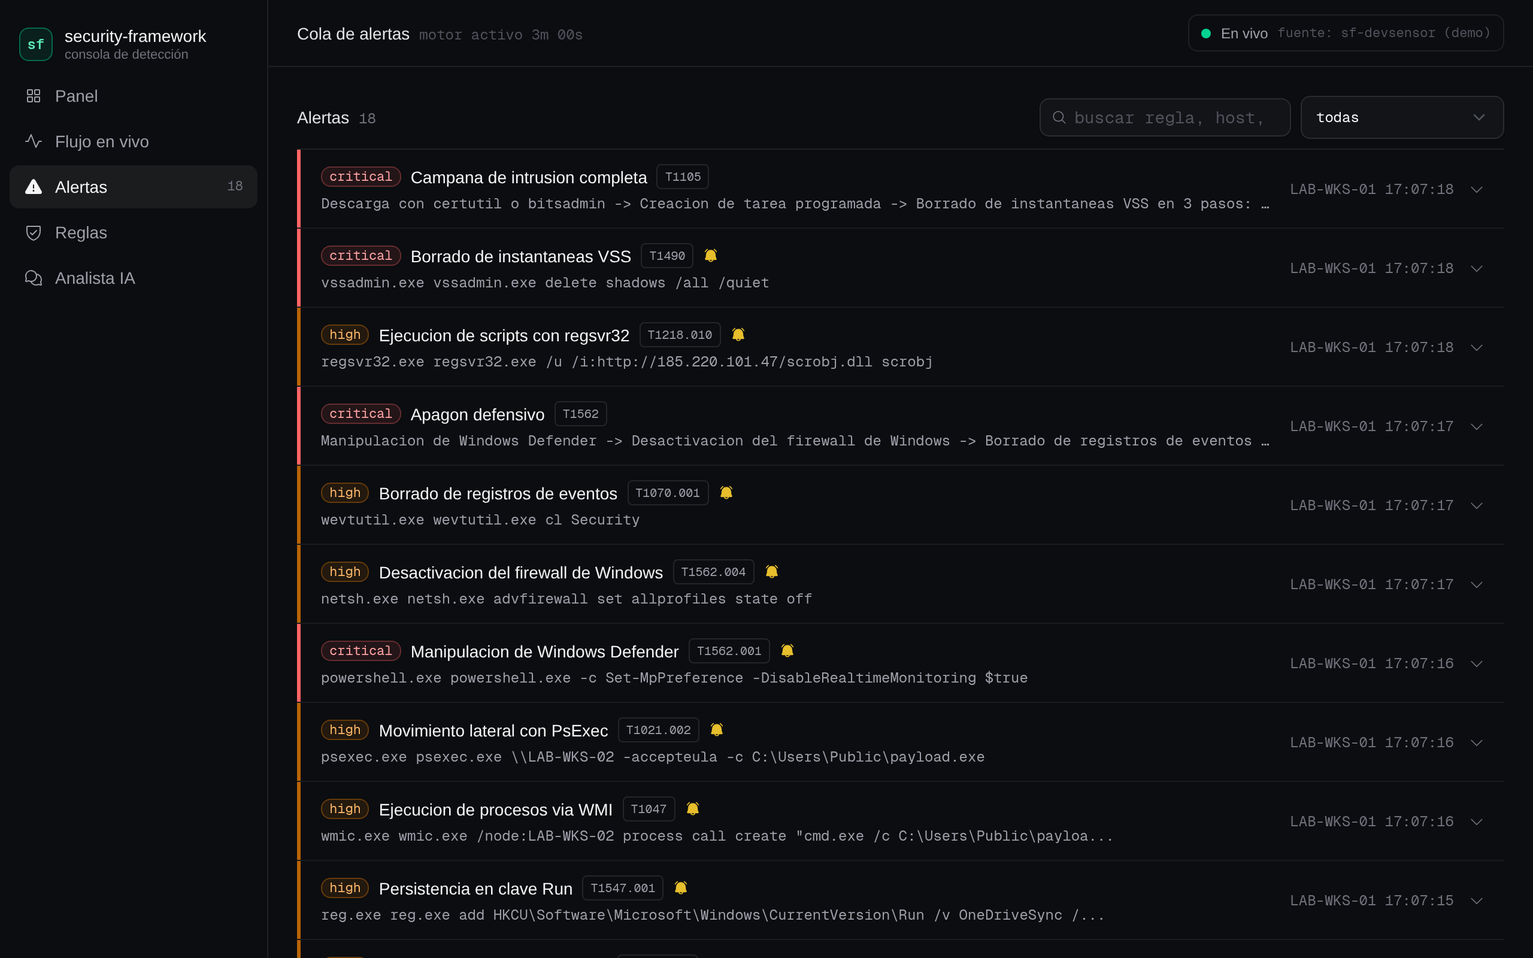
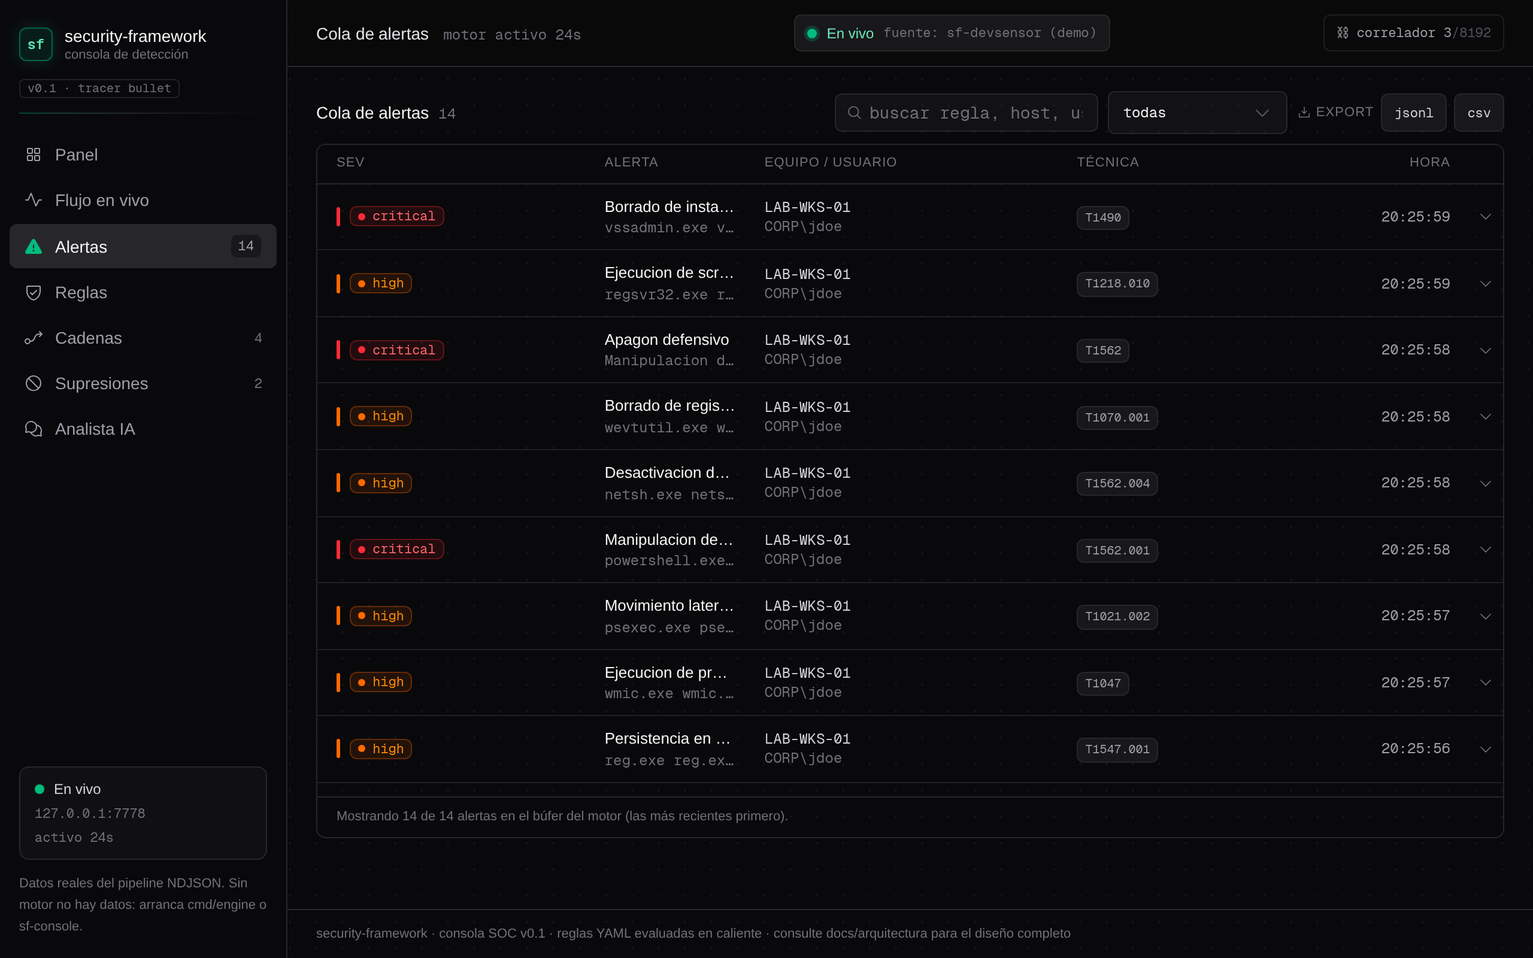
console+docs: nav-pill defect fixed (layoutId pill anchored to app root intercepted ALL pointer events — relative button + pointer-events-none, geometric browser assertion added), Cadenas view rendered as a real connected chain (numbered nodes, emerald connectors when armed vs amber missing steps, A

diff --git a/web/console/src/components/console/sequences-view.tsx b/web/console/src/components/console/sequences-view.tsx
@@ -12,6 +12,7 @@
 import { FlowArrow, Timer } from '@phosphor-icons/react'
 import { useEngine } from './engine-provider'
 import { EmptyState, SectionHeader, SeverityBadge } from './ui-bits'
+import { AnimatedItem } from '@/components/reactbits/animated-list'
 import type { SfSequence } from '@/lib/console-types'
 
 function formatWindow(seconds: number): string {
@@ -64,8 +65,8 @@ export function SequencesView() {
         />
       ) : (
         <ul className="space-y-3">
-          {sequences.map((s) => (
-            <SequenceCard key={s.id} seq={s} rules={rules.map((r) => r.name)} />
+          {sequences.map((s, i) => (
+            <SequenceCard key={s.id} seq={s} index={i} rules={rules.map((r) => r.name)} />
           ))}
         </ul>
       )}
@@ -73,13 +74,30 @@ export function SequencesView() {
   )
 }
 
-function SequenceCard({ seq, rules }: { seq: SfSequence; rules: string[] }) {
+function SequenceCard({ seq, index, rules }: { seq: SfSequence; index: number; rules: string[] }) {
   const live = new Set(rules)
   const missing = seq.steps.filter((step) => !live.has(step))
+  // armed = every step has a live rule in the engine: the chain CAN
+  // complete and raise its campaign alert. The connector color carries
+  // exactly that fact (emerald flow vs. neutral line) — state, not decor.
+  const armed = missing.length === 0
   return (
-    <li className="rounded-md border border-white/[0.08] bg-white/[0.02] px-4 py-3">
+    <li>
+      {/* AnimatedItem (React Bits): entrada escalonada en el montaje, misma
+          pauta que la telemetría del Panel; keys estables, sin re-animar. */}
+      <AnimatedItem
+        index={index}
+        className="rounded-md border border-white/[0.08] bg-white/[0.02] px-4 py-3"
+      >
       <div className="flex flex-wrap items-center gap-2">
-        <FlowArrow size={14} weight="fill" aria-hidden className="shrink-0 text-zinc-500" />
+        {/* el icono comunica si la cadena puede completar: esmeralda armada,
+            ámbar con pasos huérfanos */}
+        <FlowArrow
+          size={14}
+          weight="fill"
+          aria-hidden
+          className={`shrink-0 ${armed ? 'text-emerald-300/80' : 'text-amber-300/80'}`}
+        />
         <span className="text-sm font-medium text-zinc-100">{seq.name}</span>
         <SeverityBadge severity={seq.severity} />
         <span
@@ -98,20 +116,42 @@ function SequenceCard({ seq, rules }: { seq: SfSequence; rules: string[] }) {
 
       <p className="mt-2 max-w-[100ch] text-xs leading-relaxed text-zinc-400">{seq.description}</p>
 
-      <ol className="mt-3 flex flex-wrap items-center gap-1.5">
+      {/* Cadena visual: nodo numerado + conector por paso. El conector es
+          la parte semántica — línea esmeralda cuando la cadena puede
+          completar, neutra cuando hay un paso sin regla. */}
+      <ol className="mt-3 flex flex-wrap items-center gap-y-2">
         {seq.steps.map((step, i) => {
           const ok = live.has(step)
+          const last = i === seq.steps.length - 1
           return (
-            <li key={`${seq.id}:${i}`} className="flex items-center gap-1.5">
-              {i > 0 && <span aria-hidden className="font-mono text-xs text-zinc-600">→</span>}
-              <span
-                title={ok ? 'regla cargada en el motor' : 'regla NO cargada: la cadena no puede completar con este paso'}
-                className={`rounded border px-1.5 py-0.5 font-mono text-[11px] ${
-                  ok ? 'border-white/10 text-zinc-300' : 'border-amber-300/30 bg-amber-300/10 text-amber-200'
-                }`}
-              >
-                {step}
+            <li key={`${seq.id}:${i}`} className="flex items-center">
+              <span className="flex items-center gap-1.5">
+                <span
+                  aria-hidden
+                  className={`flex h-4 w-4 shrink-0 items-center justify-center rounded-full border font-mono text-[9px] leading-none ${
+                    ok ? 'border-white/15 bg-white/[0.04] text-zinc-400' : 'border-amber-300/40 bg-amber-300/10 text-amber-200'
+                  }`}
+                >
+                  {i + 1}
+                </span>
+                <span
+                  title={ok ? 'regla cargada en el motor' : 'regla NO cargada: la cadena no puede completar con este paso'}
+                  className={`rounded border px-1.5 py-0.5 font-mono text-[11px] ${
+                    ok ? 'border-white/10 text-zinc-300' : 'border-amber-300/30 bg-amber-300/10 text-amber-200'
+                  }`}
+                >
+                  {step}
+                </span>
               </span>
+              {!last && (
+                <span
+                  aria-hidden
+                  title={armed ? 'paso siguiente observable en el mismo host y ventana' : undefined}
+                  className={`mx-1.5 h-px w-5 ${
+                    armed ? 'bg-gradient-to-r from-emerald-400/50 to-emerald-400/20' : 'bg-white/10'
+                  }`}
+                />
+              )}
             </li>
           )
         })}
@@ -125,6 +165,7 @@ function SequenceCard({ seq, rules }: { seq: SfSequence; rules: string[] }) {
       )}
 
       <p className="mt-2 font-mono text-[10px] text-zinc-600">id: {seq.id}</p>
+      </AnimatedItem>
     </li>
   )
 }

diff --git a/web/console/src/components/console/suppressions-view.tsx b/web/console/src/components/console/suppressions-view.tsx
@@ -10,6 +10,7 @@ import { useEffect, useState } from 'react'
 import { Prohibit, Timer } from '@phosphor-icons/react'
 import { useEngine } from './engine-provider'
 import { EmptyState, SectionHeader } from './ui-bits'
+import { AnimatedItem } from '@/components/reactbits/animated-list'
 import type { SfSuppression } from '@/lib/console-types'
 
 /** Re-renders every 30 s so the expiry countdowns stay truthful. */
@@ -65,7 +66,13 @@ export function SuppressionsView() {
       ) : (
         <ul className="divide-y divide-white/[0.06] border-y border-white/[0.08]">
           {suppressions.map((s, i) => (
-            <SuppressionRow key={`${s.rule_id}:${s.host ?? '*'}:${i}`} entry={s} ruleName={ruleName(s.rule_id)} now={now} />
+            <SuppressionRow
+              key={`${s.rule_id}:${s.host ?? '*'}:${i}`}
+              index={i}
+              entry={s}
+              ruleName={ruleName(s.rule_id)}
+              now={now}
+            />
           ))}
         </ul>
       )}
@@ -74,17 +81,22 @@ export function SuppressionsView() {
 }
 
 function SuppressionRow({
+  index,
   entry,
   ruleName,
   now,
 }: {
+  index: number
   entry: SfSuppression
   ruleName?: string
   now: Date
 }) {
   const left = countdown(entry.expires, now)
   return (
-    <li className="px-4 py-3">
+    <li>
+      {/* AnimatedItem (React Bits): entrada escalonada en el montaje, misma
+          pauta que el resto de vistas; keys estables, sin re-animar. */}
+      <AnimatedItem index={index} className="px-4 py-3">
       <div className="flex flex-wrap items-center gap-2">
         <Prohibit size={14} weight="fill" aria-hidden className="shrink-0 text-zinc-500" />
         <span className="font-mono text-sm text-zinc-100">{entry.rule_id || 'todas las reglas'}</span>
@@ -113,6 +125,7 @@ function SuppressionRow({
       {entry.reason && (
         <p className="mt-1 pl-6 text-xs leading-relaxed text-zinc-400">{entry.reason}</p>
       )}
+      </AnimatedItem>
     </li>
   )
 }

diff --git a/web/console/src/components/console/shell.tsx b/web/console/src/components/console/shell.tsx
@@ -81,12 +81,16 @@ export function ConsoleShell() {
                     }`}
                   >
                     {/* píldora activa animada con layoutId: el resalte viaja
-                        entre secciones en lugar de aparecer/desaparecer; el
-                        contenido lleva `relative` para pintar por encima */}
+                        entre secciones en lugar de aparecer/desaparecer. El
+                        botón lleva `relative` (ancla el inset-0) y la píldora
+                        pointer-events-none: durante el vuelo del spring sobre
+                        los botones vecinos jamás debe interceptar clicks
+                        (defecto real detectado por el E2E de la ronda
+                        20h20 cuando el inset-0 se anclaba a la raíz). */}
                     {view === item.id && (
                       <motion.span
                         layoutId="nav-pill"
-                        className="absolute inset-0 rounded-md bg-zinc-800"
+                        className="pointer-events-none absolute inset-0 rounded-md bg-zinc-800"
                         transition={reduce ? { duration: 0 } : { type: 'spring', stiffness: 380, damping: 32 }}
                       />
                     )}

diff --git a/README.md b/README.md
@@ -87,7 +87,7 @@ And one engineering rule that shapes everything else: **no simulated data in the
 | **Correlation** | Kill-chain sequencer: named steps across the same host within a time window raise one high-signal campaign alert |
 | **Response** | Operator suppressions (rule/host, expiry, hot-reload), alert webhook with Bearer auth and bounded retries |
 | **API** | Local REST API with OpenAPI 3.0 spec (drift-guarded in CI), SSE live stream, filters, JSONL/CSV export with formula-injection neutralization |
-| **Console** | Live feed, KPI dashboard, severity triage with free-text search, rule browser, suppressions view, AI analyst (bring-your-own OpenAI-compatible endpoint) |
+| **Console** | Live feed, KPI dashboard, severity triage with free-text search, rule browser, kill-chain chains view, suppressions view, AI analyst (bring-your-own OpenAI-compatible endpoint) |
 | **Storage** | Opt-in SQLite persistence (`-store`): events and alerts outlive restarts, retention pruner, lists and exports read the full history |
 | **Auth** | Shared-token ingest handshake (constant-time), zero-downtime token rotation window, optional Bearer on the API and on outbound webhooks |
 | **Ops** | One-command Windows installer (six commands on PATH), Docker image for the engine, GitHub Actions CI on every push |
@@ -413,7 +413,7 @@ The uninstaller stops the processes, removes the logon entries (HKCU Run and any
 
 ## Web console (preview)
 
-The repo ships an early browser console: live telemetry feed, KPI dashboard, severity triage, the YAML rule pack and an AI analyst that explains each alert like a senior SOC analyst would. Both the alert queue and the live feed support free-text search (rule, host, user, command line, MITRE tag) on top of the dropdown filters, so triage can narrow down a noisy host or a single technique in seconds. The hub (`web/console-service`) contains NO simulator: it forwards only what the Go engine's API (:7778) really delivers, and the header chip names the actual source of the events you are looking at - `sf-sensor (Sysmon real)` for real host telemetry, or `sf-devsensor (demo)` while the scripted scenario is replaying. If the engine is unreachable the console says so and shows no data, instead of inventing any.
+The repo ships an early browser console: live telemetry feed, KPI dashboard, severity triage, the YAML rule pack, the kill-chain chains the correlator has armed, operator suppressions, and an AI analyst that explains each alert like a senior SOC analyst would. Both the alert queue and the live feed support free-text search (rule, host, user, command line, MITRE tag) on top of the dropdown filters, so triage can narrow down a noisy host or a single technique in seconds. The hub (`web/console-service`) contains NO simulator: it forwards only what the Go engine's API (:7778) really delivers, and the header chip names the actual source of the events you are looking at - `sf-sensor (Sysmon real)` for real host telemetry, or `sf-devsensor (demo)` while the scripted scenario is replaying. If the engine is unreachable the console says so and shows no data, instead of inventing any.
 
 The interface carries a restrained motion layer adapted from [React Bits](https://reactbits.dev) — every effect communicates a state change and none is decoration: a pointer-reactive dot-grid canvas behind the shell, view titles that blur in on section change, KPI halos that follow the mouse, an animated 1px border on the AI analyst while it is working, a gradient pulse on the critical counter while critical alerts exist, and a brand tagline that decrypts once on load. Everything respects `prefers-reduced-motion` (static fallbacks) and the whole layer adds zero runtime dependencies beyond `motion`.
 
@@ -432,6 +432,10 @@ Free-text search on top of the dropdown filters - typing narrows the queue live 
 The loaded rule pack, rendered with each rule's conditions and MITRE mapping:
 
 ![Console rules view: 23 loaded rules with conditions and ATT&CK mapping](docs/assets/console-reglas.png)
+
+The kill-chain chains the correlator loaded, rendered as connected step chains: emerald connectors when every step's rule is live (the chain can complete and raise its campaign alert), amber nodes for a step waiting on a missing rule:
+
+![Console chains view: 4 armed kill-chain sequences with numbered steps and ATT&CK tags](docs/assets/console-cadenas.png)
 
 Operator suppressions, rendered read-only with rule-name lookup, host scope, reason and a live expiry countdown — the exact set the engine loaded from `suppressions.yaml` (the nav badge shows the active count; suppressed hits raise no alert, as documented in the suppressions section above):
 
@@ -535,9 +539,7 @@ The shipped pack (`sequences/kill-chains.yaml`) defines 4 sequences, all
 | `e2c7a9f3-3c4d-4e5f-a061-c7d8e9f0a1b2` | Apagon defensivo | critical | 5m | Manipulacion de Windows Defender + Desactivacion del firewall de Windows + Borrado de registros de eventos |
 | `f3d8ba64-4d5e-4f60-b172-d8e9f0a1b2c3` | Instalacion de persistencia | critical | 5m | Descarga con certutil o bitsadmin + Persistencia en clave Run via registro |
 
-The correlator is observable from the outside: `/api/sequences` lists the armed chains (steps, window, tags) as loaded right now, and `/api/stats` carries `correlator_states` (in-flight (sequence, host) chains) against `correlator_cap` (8192) — a hostile feed inventing hostnames pushes states toward the cap, and past it NEW hosts would silently stop being tracked, so the number is meant to be watched. The console surfaces both: the `correlador N/cap` chip in the header turns red the moment the cap is reached, and the Cadenas view lists each chain with its steps and flags any step whose rule is not loaded (a chain that can never complete).
-
-The correlator is observable from the outside: `/api/stats` carries `correlator_states` (chains in flight, one per sequence/host pair), `correlator_sequences` (loaded sequences) and `correlator_cap` (hard tracking cap, 8192). A hostile feed inventing hostnames drives `correlator_states` toward the cap — past it, NEW hosts silently stop being tracked, so a value climbing on a small fleet is a feed problem, not popularity. The console header shows the same numbers as a `correlador N/cap` chip that turns red the moment the cap is reached.
+The correlator is observable from the outside: `/api/sequences` lists the armed chains (steps, window, tags) as loaded right now, and `/api/stats` carries `correlator_states` (chains in flight, one per sequence/host pair), `correlator_sequences` (loaded sequences) and `correlator_cap` (hard tracking cap, 8192). A hostile feed inventing hostnames drives `correlator_states` toward the cap — past it, NEW hosts silently stop being tracked, so a value climbing on a small fleet is a feed problem, not popularity. The console surfaces both: the `correlador N/cap` chip in the header turns red the moment the cap is reached, and the Cadenas view renders each chain as its step sequence and flags any step whose rule is not loaded (a chain that can never complete).
 
 ### Rule actions
 
@@ -674,7 +676,8 @@ suppressions.example.yaml  annotated allowlist format (rename to
 scripts/windows/  installed runtime scripts (sf-sensor, sf-console, ...)
                   + bundled sysmon-config.xml tuned to the detection pack
 scripts/dev-tests/ end-to-end verification scripts (OpenAPI drift check,
-                  webhook receiver, ingest auth smoke with real binaries)
+                  webhook receiver, ingest auth and SQLite store smokes with
+                  real binaries)
 install.ps1       one-command Windows installer
 uninstall.ps1     standalone uninstaller
 Makefile          build automation (engine, sensor, console, docker)

diff --git a/docs/agentes/02-implementaciones/ronda_2026-09-29_20h20.md b/docs/agentes/02-implementaciones/ronda_2026-09-29_20h20.md
@@ -1,0 +1,58 @@
+# Ronda 2026-09-29 20h20 — Implementaciones
+
+## Encargo
+Continuar la mejora de README profesional + consola con React Bits (tercera pasada, v3), tras las rondas 8c81277 (v1) y 9daa275 (v2).
+
+## Trabajo realizado
+
+### 1. Bug real de la v2 encontrado por el E2E: la píldora de navegación bloqueaba TODOS los clicks
+El E2E con navegador real de esta ronda (script de capturas + verificador dedicado) destapó que la píldora activa del sidebar (`motion.span` con `layoutId="nav-pill"`, añadida en la v2) se anclaba al contenedor RAÍZ en vez de al botón: el botón no llevaba `relative`, así que el `absolute inset-0` de la píldora cubría TODA la app con un overlay al 6% que interceptaba puntero. Playwright lo evidenció: 56 reintentos de click interceptados por el span. La v2 declaró "click de navegación OK" sin verificación geométrica — lección: un click "no lanza error" no es un click que navega.
+
+Fix (shell.tsx):
+- botón de nav con `relative` (la píldora queda del tamaño del botón)
+- píldora con `pointer-events-none` (es un resalte visual, jamás intercepta)
+
+Verificación nueva y permanente: `scripts/verify_nav.mjs` (fuera del repo, orquestado por run_captures.sh) — mide bounding boxes píldora vs botón y afirma que un click en otra sección navega. Resultado: pill_box == panel_btn exactos, `NAV_OK`.
+
+### 2. Vista Cadenas: cadena kill-chain visual
+La vista de secuencias mostraba los pasos como chips con flechas de texto `→`. Ahora cada cadena se renderiza como una cadena de verdad: nodos numerados (1,2,3) conectados por conectores, y el CONECTOR lleva la semántica de estado: línea esmeralda degradada cuando todos los pasos tienen regla cargada (la cadena puede completar y levantar su alerta de campaña), línea neutra cuando hay un paso huérfano; el nodo del paso sin regla va en ámbar y el icono de la tarjeta esmeralda/ámbar según armada/rota. Entrada escalonada con AnimatedItem (misma pauta que la telemetría del Panel). `prefers-reduced-motion` respetado vía AnimatedItem.
+
+### 3. Vista Supresiones: entrada escalonada
+Filas con AnimatedItem (consistencia con el resto de vistas); sin cambios funcionales.
+
+### 4. Capturas regeneradas con la UI actual + primera captura de Cadenas
+- Las capturas de alertas/reglas/supresiones eran de la UI pre-renovación (17h23); el panel era de la v2. TODAS regeneradas contra pila real (engine 23 reglas + 4 secuencias + 2 supresiones armadas, devsensor, hub :3003, consola producción :3000).
+- Nueva `docs/assets/console-cadenas.png` embebida en el README con su párrafo (conectores esmeralda vs nodos ámbar).
+- GIF `console-busqueda.gif` reensamblado con la receta documentada (1100px, paleta adaptativa, 450ms/fotograma, hold largo final): 340KB, 6 fotogramas.
+- Fix del script de capturas: escribía los PNG en `docs/assets/src/` (su propio directorio) en vez de `docs/assets/` como dice su contrato; ahora ancla ASSETS al padre. Fila nueva en docs/assets/README.md y conteo "three"→"five".
+
+### 5. README v3
+- Fusión del párrafo duplicado del correlador en "Kill-chain correlation" (residuo de rebase: dos párrafos consecutivos empezaban por "The correlator is observable from the outside").
+- Features y prose de "Web console": la vista Cadenas ahora aparece (faltaba desde que aterrizó /api/sequences).
+- Fila de Repository layout de scripts/dev-tests: incluye el smoke del store SQLite (7cc9963).
+- Verificado contra el código esta ronda: los 15 flags de la tabla de configuración coinciden 1:1 con cmd/engine/main.go.
+
+### 6. Repo hygiene
+- `suppressions.yaml` añadido a .gitignore: es la copia armada LOCAL del operador (nombres de host reales, ventanas de cambio); el ejemplo anotado sigue commiteado. Creado localmente para las capturas (2 entradas contra tráfico del replay).
+
+## Verificación
+- `tsc --noEmit` limpio (tras cada cambio), `next build` verde (3/3 páginas).
+- Suite Go completa: build + vet + gofmt -l vacío + tests 10 paquetes `-count=1` OK (código Go sin tocar, verificado por convergencia).
+- Hub: bun test 10/10.
+- E2E navegador real: verificador de píldora NAV_OK + capturas completas (5 PNG + GIF) revisadas visualmente una a una.
+- Binarios Go reconstruidos en run/ (gitignored).
+
+## Convergencia con la ola de rediseño (rebase de 11 commits)
+
+Durante el push aparecieron 11 commits nuevos en origin/main, incluida una ola de rediseño mayor (e0b789c: consola SOC pro + hub redesign + CLI interactiva cobra/charm; 89d6e71: port del store y wiring del correlator a la arquitectura CLI; d23f913: dedupe de la sección Configuration). Rebase con 2 conflictos resueltos fusionando AMBOS trabajos:
+
+- `README.md`: el remoto aportó la tabla de las 4 secuencias con UUIDs completos y ARRSTRABA la duplicación del párrafo del correlador que esta ronda venía a fusionar. Resolución: tabla nueva del remoto + párrafo fusionado único mío (con la mención del renderizado de cadenas de la vista Cadenas).
+- `shell.tsx`: el rediseño reescribió el shell (engine-provider, sticky sidebar con caja de conexión, focus-visible rings) y ya llevaba `relative` en el botón de nav, pero PERDIÓ el `pointer-events-none` de la píldora — necesario incluso con el anclaje correcto: durante el vuelo del spring la píldora viaja sobre botones vecinos y puede interceptar clicks rápidos. Resolución: rediseño completo + `pointer-events-none` restaurado (píldora zinc-800 del rediseño).
+- `sequences-view.tsx` / `suppressions-view.tsx`: fusión textual limpia — mis cadenas visuales + AnimatedItem conviven con el provider nuevo (useEngine) del rediseño.
+- Las capturas se REGENERARON dos veces en esta ronda: primera contra la UI pre-rediseño, y tras el rebase contra la UI final fusionada (los PNG del README muestran el estado real del árbol: rediseño + cadena visual). Verificador NAV_OK en ambas pasadas.
+- Verificación post-fusión: tsc limpio, next build verde, go build/vet OK, tests Go 10 paquetes OK (motor ahora con cobra/charm — CLI mantiene modo clásico sin subcomando, verificado), hub bun 24/24 en 4 ficheros.
+- El motor es ahora CLI (`engine run|rules|validate|version`); sin subcomando conserva banderas de un guion — la tabla de configuración del README sigue siendo correcta y el orquestador de capturas funcionó sin cambios.
+
+## Estado
+- Commit pendiente de push tras rebase (protocolo anti-carrera).
+- Pendientes vigentes del rol: smoke ETW en Windows real (sin entorno aquí); rotar el token de GitHub expuesto en chat (reiterado).

diff --git a/docs/assets/README.md b/docs/assets/README.md
@@ -12,6 +12,7 @@ remains regenerable.
 | `console-panel.png`         | output  | console operations dashboard (root README, Web console section) |
 | `console-alertas.png`       | output  | console alert triage queue (root README) |
 | `console-reglas.png`        | output  | console rules view (root README) |
+| `console-cadenas.png`       | output  | console kill-chain chains view (root README) |
 | `console-busqueda.gif`      | output  | search interaction: typing `lsass` filters the alert queue live (root README) |
 | `src/diagram_arquitectura.html` | source | self-contained HTML/CSS source of the architecture diagram (1060px canvas) |
 | `src/diagram_tracer.html`   | source  | self-contained HTML/CSS source of the pipeline above (900px canvas) |
@@ -35,7 +36,7 @@ remains regenerable.
    (a production build renders cleaner screenshots than dev mode: no
    dev-tools button).
 2. Run `node src/capture_console.mjs` (prerequisites in the script
-   header). It writes the three PNGs into this directory.
+   header). It writes the five PNGs into this directory.
 3. Assemble `console-busqueda.gif` from the per-frame PNGs the script
    leaves in the temp dir (resize to ~1100px wide, adaptive palette,
    ~450ms per frame with a long hold on the final frame).
